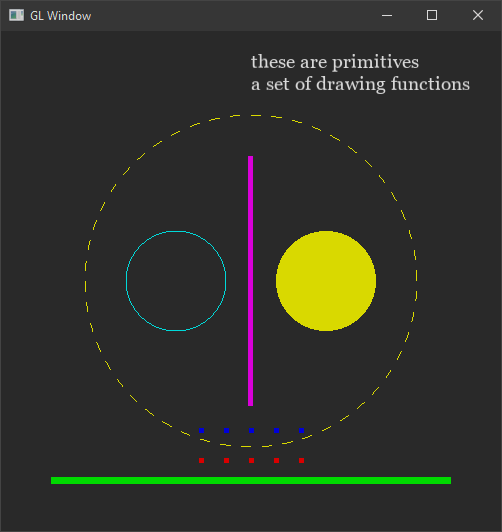
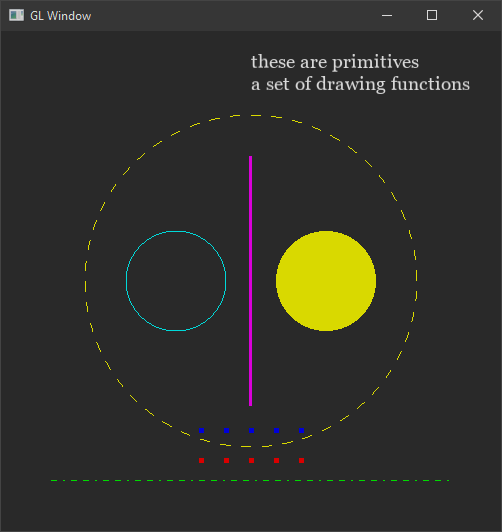
Initial

Changed region(s): [[0.0896, 0.8722, 0.8964, 0.9323], [0.4781, 0.3008, 0.508, 0.7519]]

diff --git a/glwnd/src/primitive.cpp b/glwnd/src/primitive.cpp
@@ -61,31 +61,40 @@ void GLPrimitive::circle(const p2i& center, int radius, circle_t type, int nsegm
   this->circle(c, r, type, nsegments);
 }
 
-void GLPrimitive::line(const p2d& p1, const p2d& p2, line_t type, int nsegments)
+void GLPrimitive::line(const p2d& p1, const p2d& p2, line_t type)
 {
-  glBegin(GL_LINES);
+  if (type == line_t::solid)
   {
-    if (type == line_t::stipple)
-    {
-      // assert(0);
-    }
-    else if (type == line_t::solid)
+    glBegin(GL_LINES);
     {
       glVertex2d(p1.x(), p1.y());
       glVertex2d(p2.x(), p2.y());
     }
+    glEnd();
   }
-  glEnd();
+  else
+  {
+    glPushAttrib(GL_ALL_ATTRIB_BITS);
+    glEnable(GL_LINE_STIPPLE);
+    glLineStipple(type == line_t::dot ? 1 : 2, GLushort(type));
+    glBegin(GL_LINE_STRIP);
+    {
+      glVertex2d(p1.x(), p1.y());
+      glVertex2d(p2.x(), p2.y());
+    }
+    glEnd();
+    glPopAttrib();
+  }
 }
 
-void GLPrimitive::line(const p2i& p1, const p2i& p2, line_t type, int nsegments)
+void GLPrimitive::line(const p2i& p1, const p2i& p2, line_t type)
 {
   assert(m_ptr_parent != nullptr);
 
   auto p_1 = m_ptr_parent->viewport().win_to_ndc(p1);
   auto p_2 = m_ptr_parent->viewport().win_to_ndc(p2);
 
-  this->line(p_1, p_2, type, nsegments);
+  this->line(p_1, p_2, type);
 }
 
 void GLPrimitive::scatter(const std::initializer_list<p2d>& points)

diff --git a/glwnd/include/glwnd/primitive.h b/glwnd/include/glwnd/primitive.h
@@ -40,12 +40,14 @@ public:
 
   enum class line_t : int
   {
-    stipple, // alias for tipple
     solid,
+    dot = 0x0101,
+    dash = 0x00FF,
+    dashdot = 0x1C47,
   };
 
-	void line(const p2d& p1, const p2d& p2, line_t type = line_t::solid, int nsegments = 10);
-	void line(const p2i& p1, const p2i& p2, line_t type = line_t::solid, int nsegments = 10);
+	void line(const p2d& p1, const p2d& p2, line_t type = line_t::solid);
+	void line(const p2i& p1, const p2i& p2, line_t type = line_t::solid);
 
   void scatter(const std::initializer_list<p2d>& points);
   void scatter(const std::initializer_list<p2i>& points);

diff --git a/example/example.primitive.h b/example/example.primitive.h
@@ -33,13 +33,13 @@ public:
 
     // line
 
-    glLineWidth(5);
+    glLineWidth(1);
+    glColor3d(0., 1., 0.);
+    renderer().line(p2i(50, 50), p2i(win.width() - 50, 50), GLPrimitive::line_t::dashdot);
+
+    glLineWidth(3);
     glColor3d(1., 0., 1.);
     renderer().line(p2d(0., +0.5), p2d(0., -0.5), GLPrimitive::line_t::solid);
-
-    glLineWidth(7);
-    glColor3d(0., 1., 0.);
-    renderer().line(p2i(50, 50), p2i(win.width() - 50, 50), GLPrimitive::line_t::solid);
 
     // scatter
 
